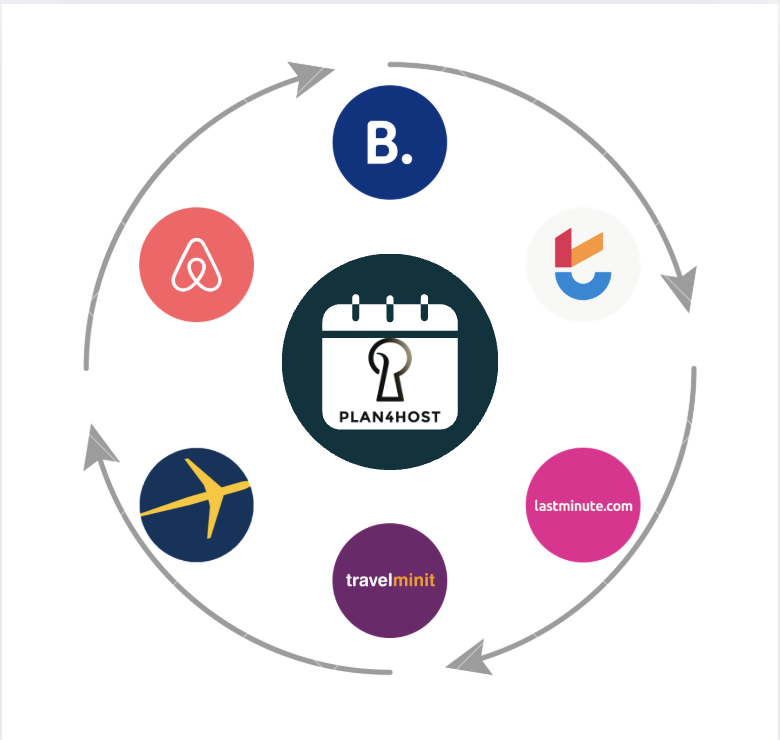
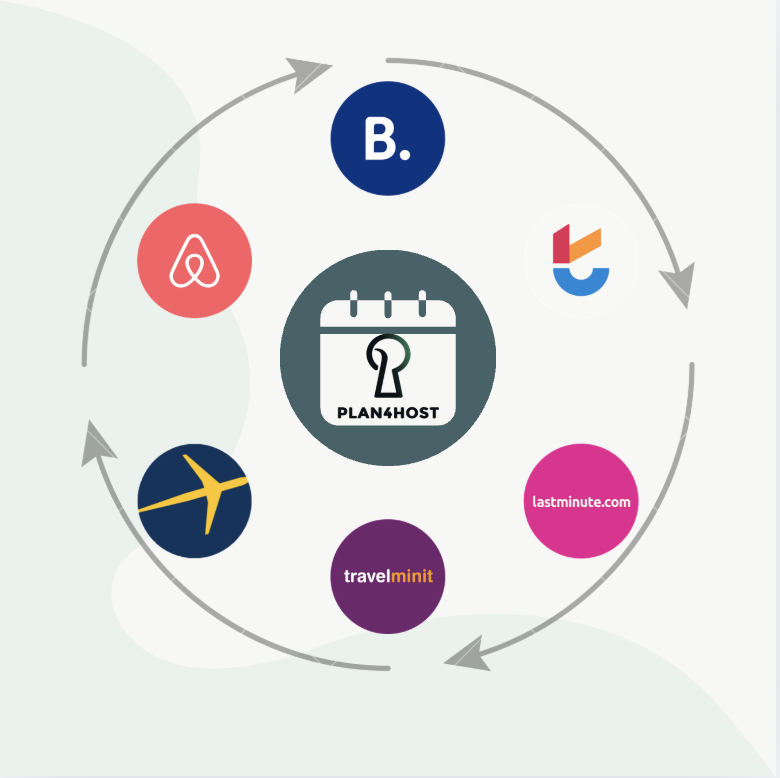
chore: updates

diff --git a/app/home.module.css b/app/home.module.css
@@ -740,7 +740,7 @@ will-change: transform;
   display: grid;
   grid-template-columns: minmax(0, 315px) minmax(0, 390px);
   gap: 28px;
-  align-items: stretch;
+  align-items: start;
   justify-content: center;
 }
 .aboutVisual{
@@ -750,7 +750,7 @@ will-change: transform;
   overflow: hidden;
   display: grid;
   place-items: stretch;
-  min-height: 270px;
+  aspect-ratio: 1 / 1;
 }
 .aboutVisual img{
   width: 100%;
